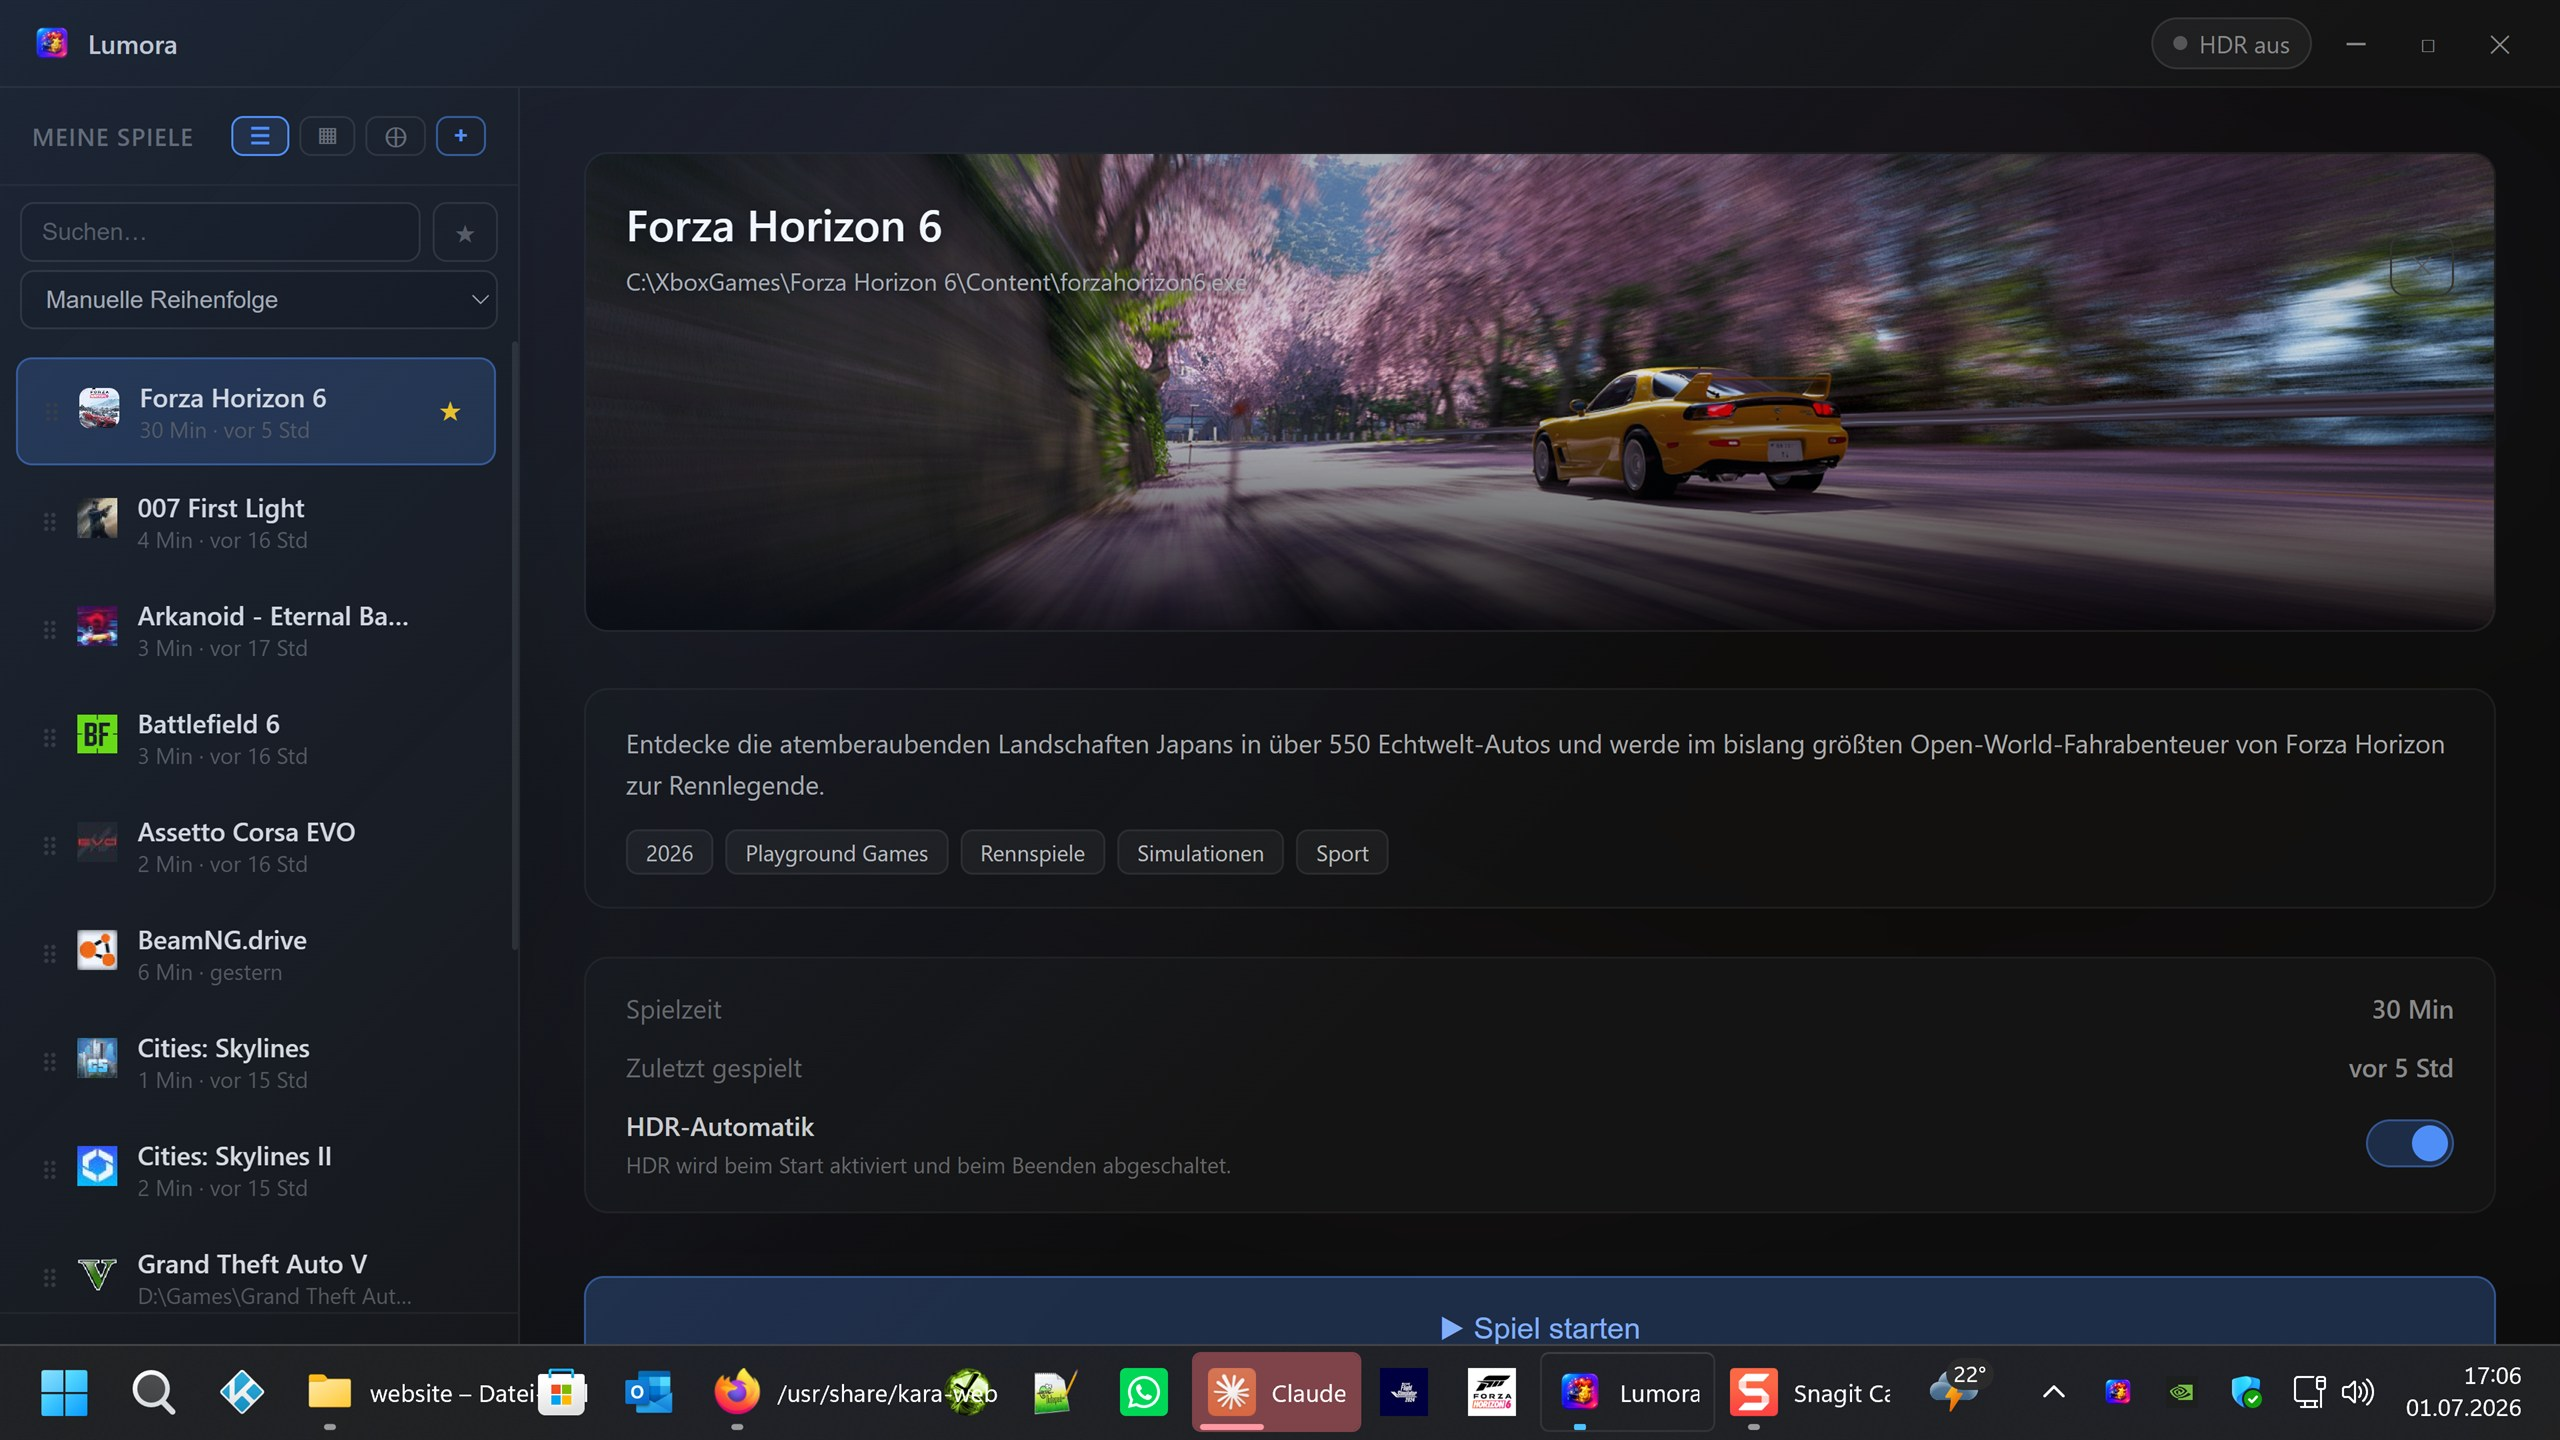
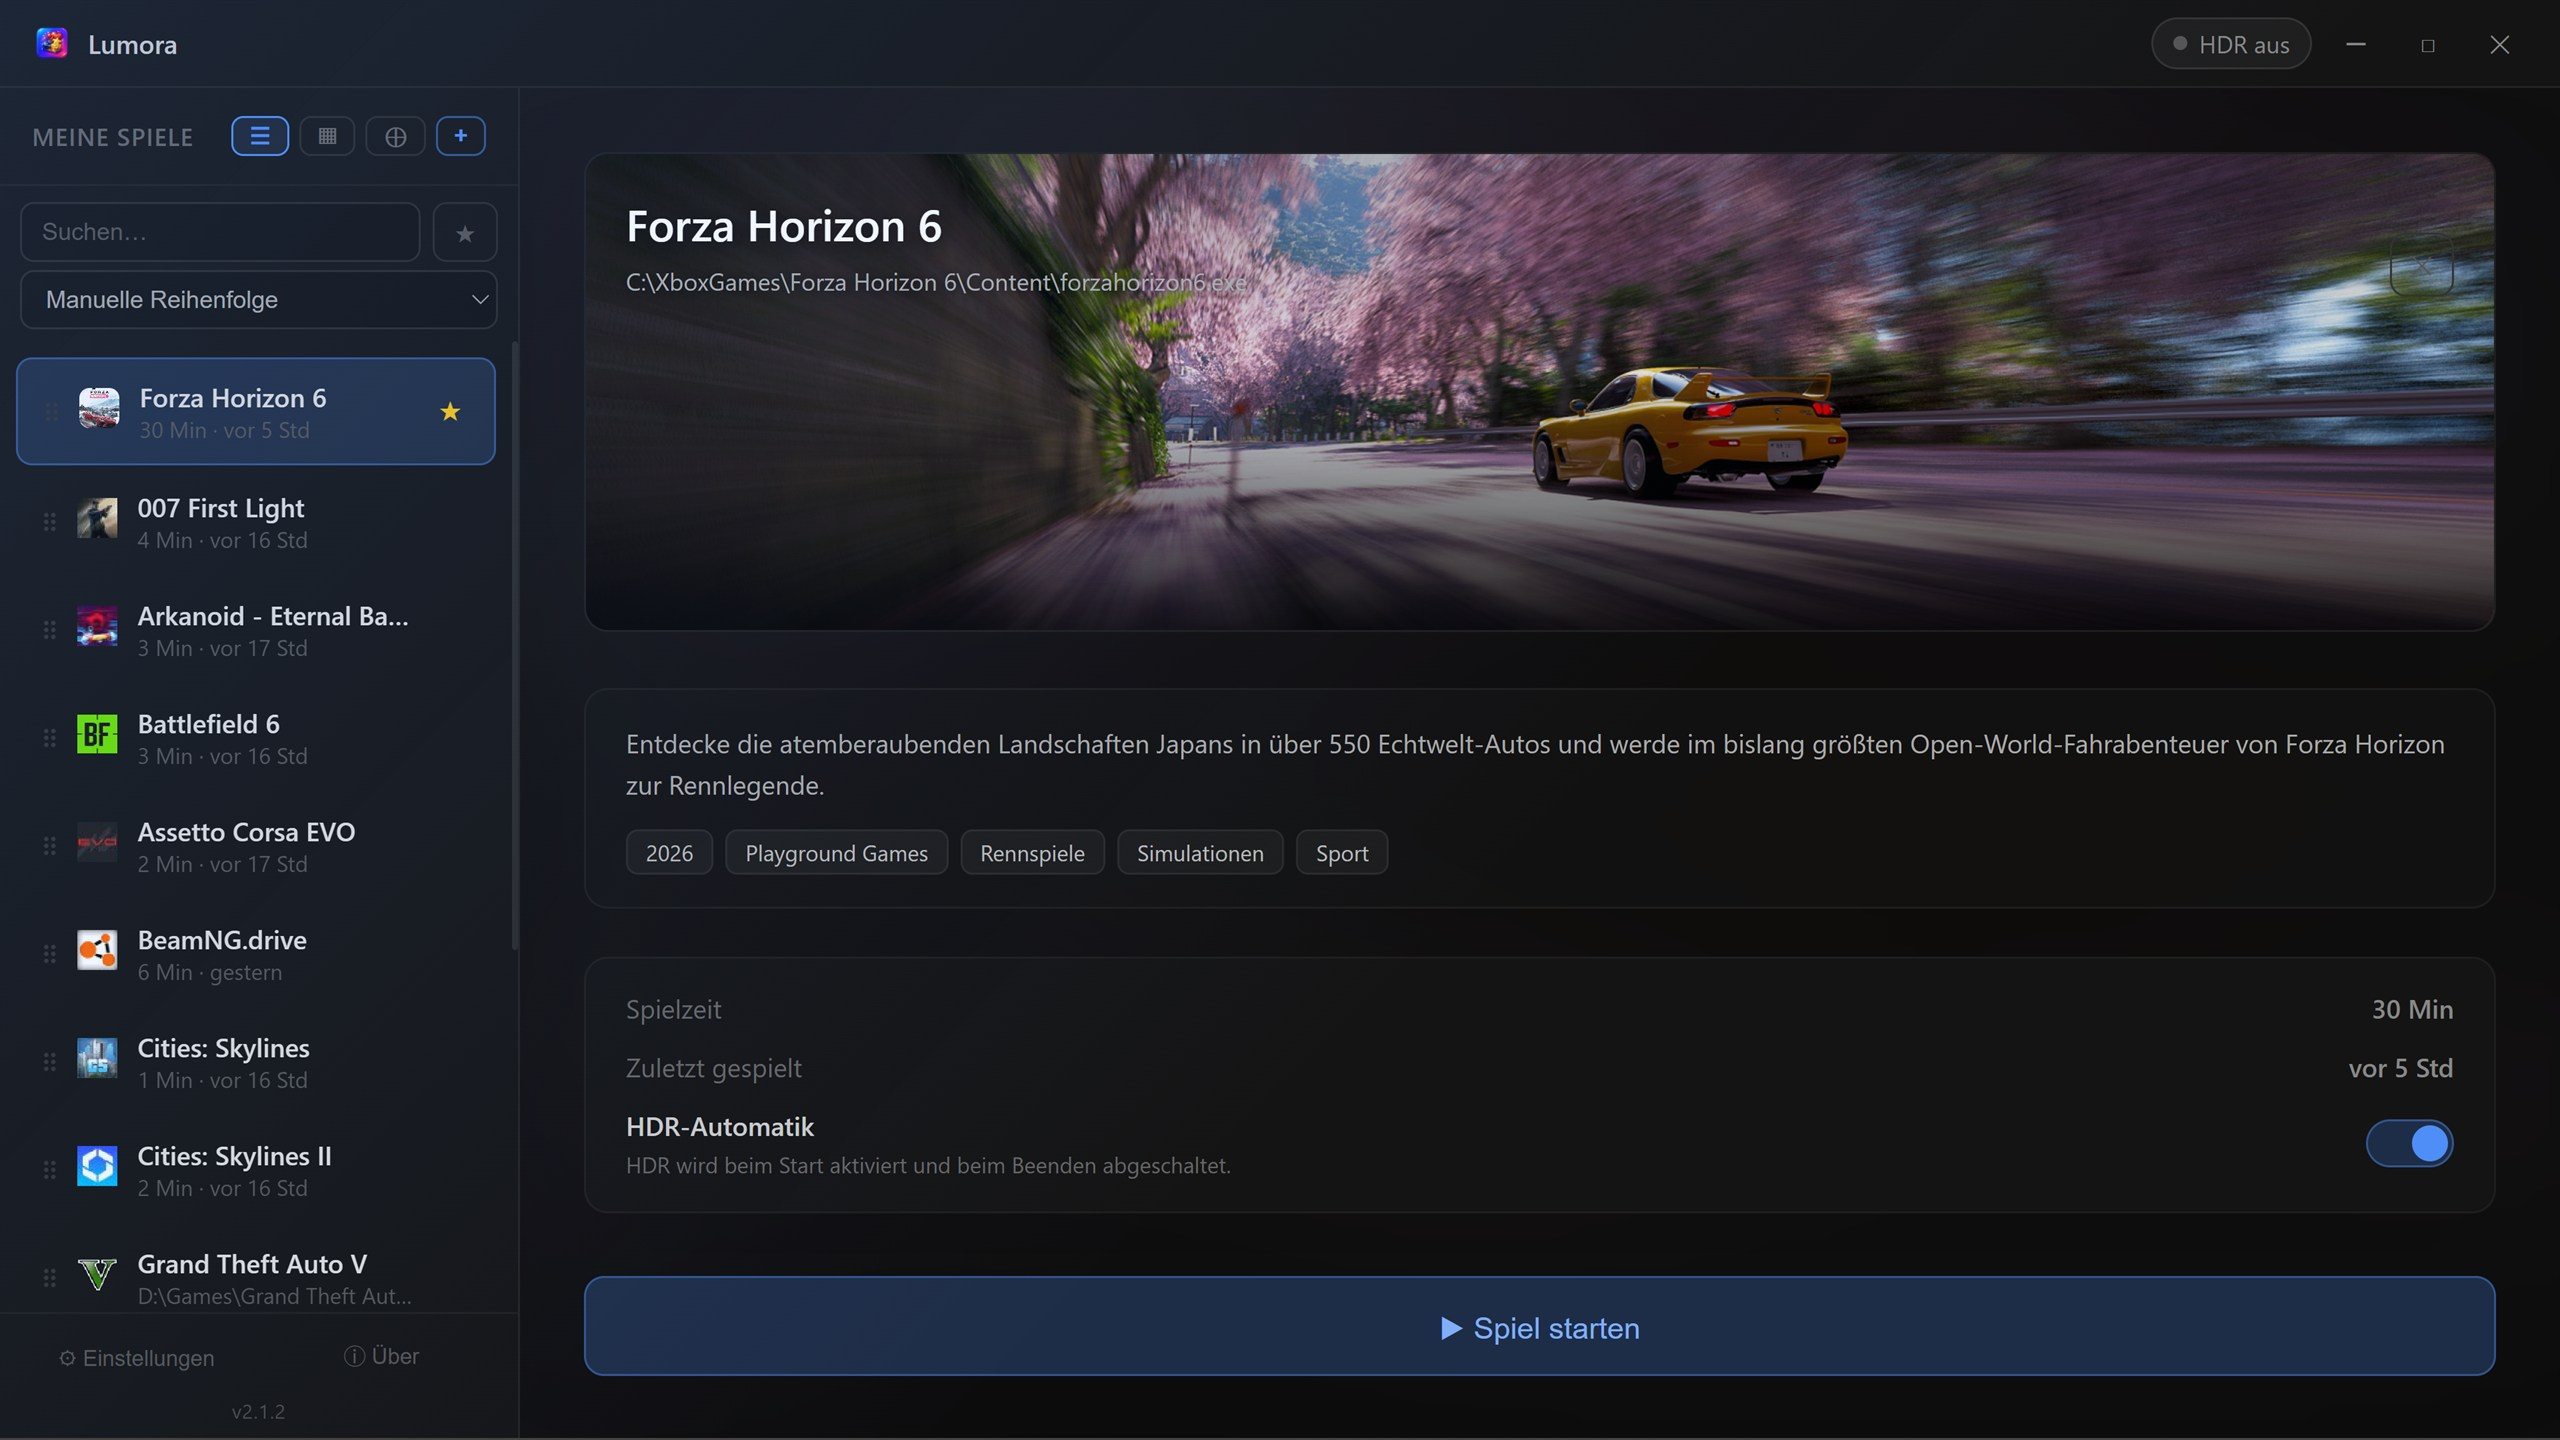
Fix: "Minimiert starten" nur beim Autostart + Website-1.jpg aktualisiert
- Bug: "Minimiert starten" liess die App bei JEDEM Start minimiert, auch beim
  manuellen Start. Jetzt greift wantMin nur noch bei '--minimized' (das nur der
  Autostart-Eintrag uebergibt) -> manueller Start oeffnet normal. Verifiziert.
- Einstellungs-Label praezisiert: "Beim Autostart minimiert starten".
- website/1.jpg auf neuen Screenshot aktualisiert (2560px/JPEG q90, 348 KB).

Changed region(s): [[0.0, 0.9062, 1.0, 1.0]]

diff --git a/main.js b/main.js
@@ -174,7 +174,10 @@ function createWindow() {
   const state = loadWindowState() || {}
   const hasValidPos = Number.isInteger(state.x) && Number.isInteger(state.y) &&
     isVisibleOnSomeDisplay({ x: state.x, y: state.y, width: state.width || 900, height: state.height || 600 })
-  const wantMin = appSettings.startMinimized || process.argv.includes('--minimized')
+  // Minimiert starten NUR beim Autostart: der Autostart-Eintrag uebergibt
+  // '--minimized' (siehe applyAutostart). Beim MANUELLEN Start fehlt das Argument
+  // -> die App oeffnet normal, auch wenn "Minimiert starten" aktiviert ist.
+  const wantMin = process.argv.includes('--minimized')
 
   mainWindow = new BrowserWindow({
     width: state.width || 900,

diff --git a/index.html b/index.html
@@ -246,7 +246,7 @@
           <label class="switch"><input type="checkbox" id="setAutostart" onchange="onAppSettingChange()"><span class="switch-slider"></span></label>
         </div>
         <div class="setting-toggle-row">
-          <span class="setting-toggle-label">Minimiert starten</span>
+          <span class="setting-toggle-label">Beim Autostart minimiert starten</span>
           <label class="switch"><input type="checkbox" id="setStartMin" onchange="onAppSettingChange()"><span class="switch-slider"></span></label>
         </div>
         <div class="setting-toggle-row">